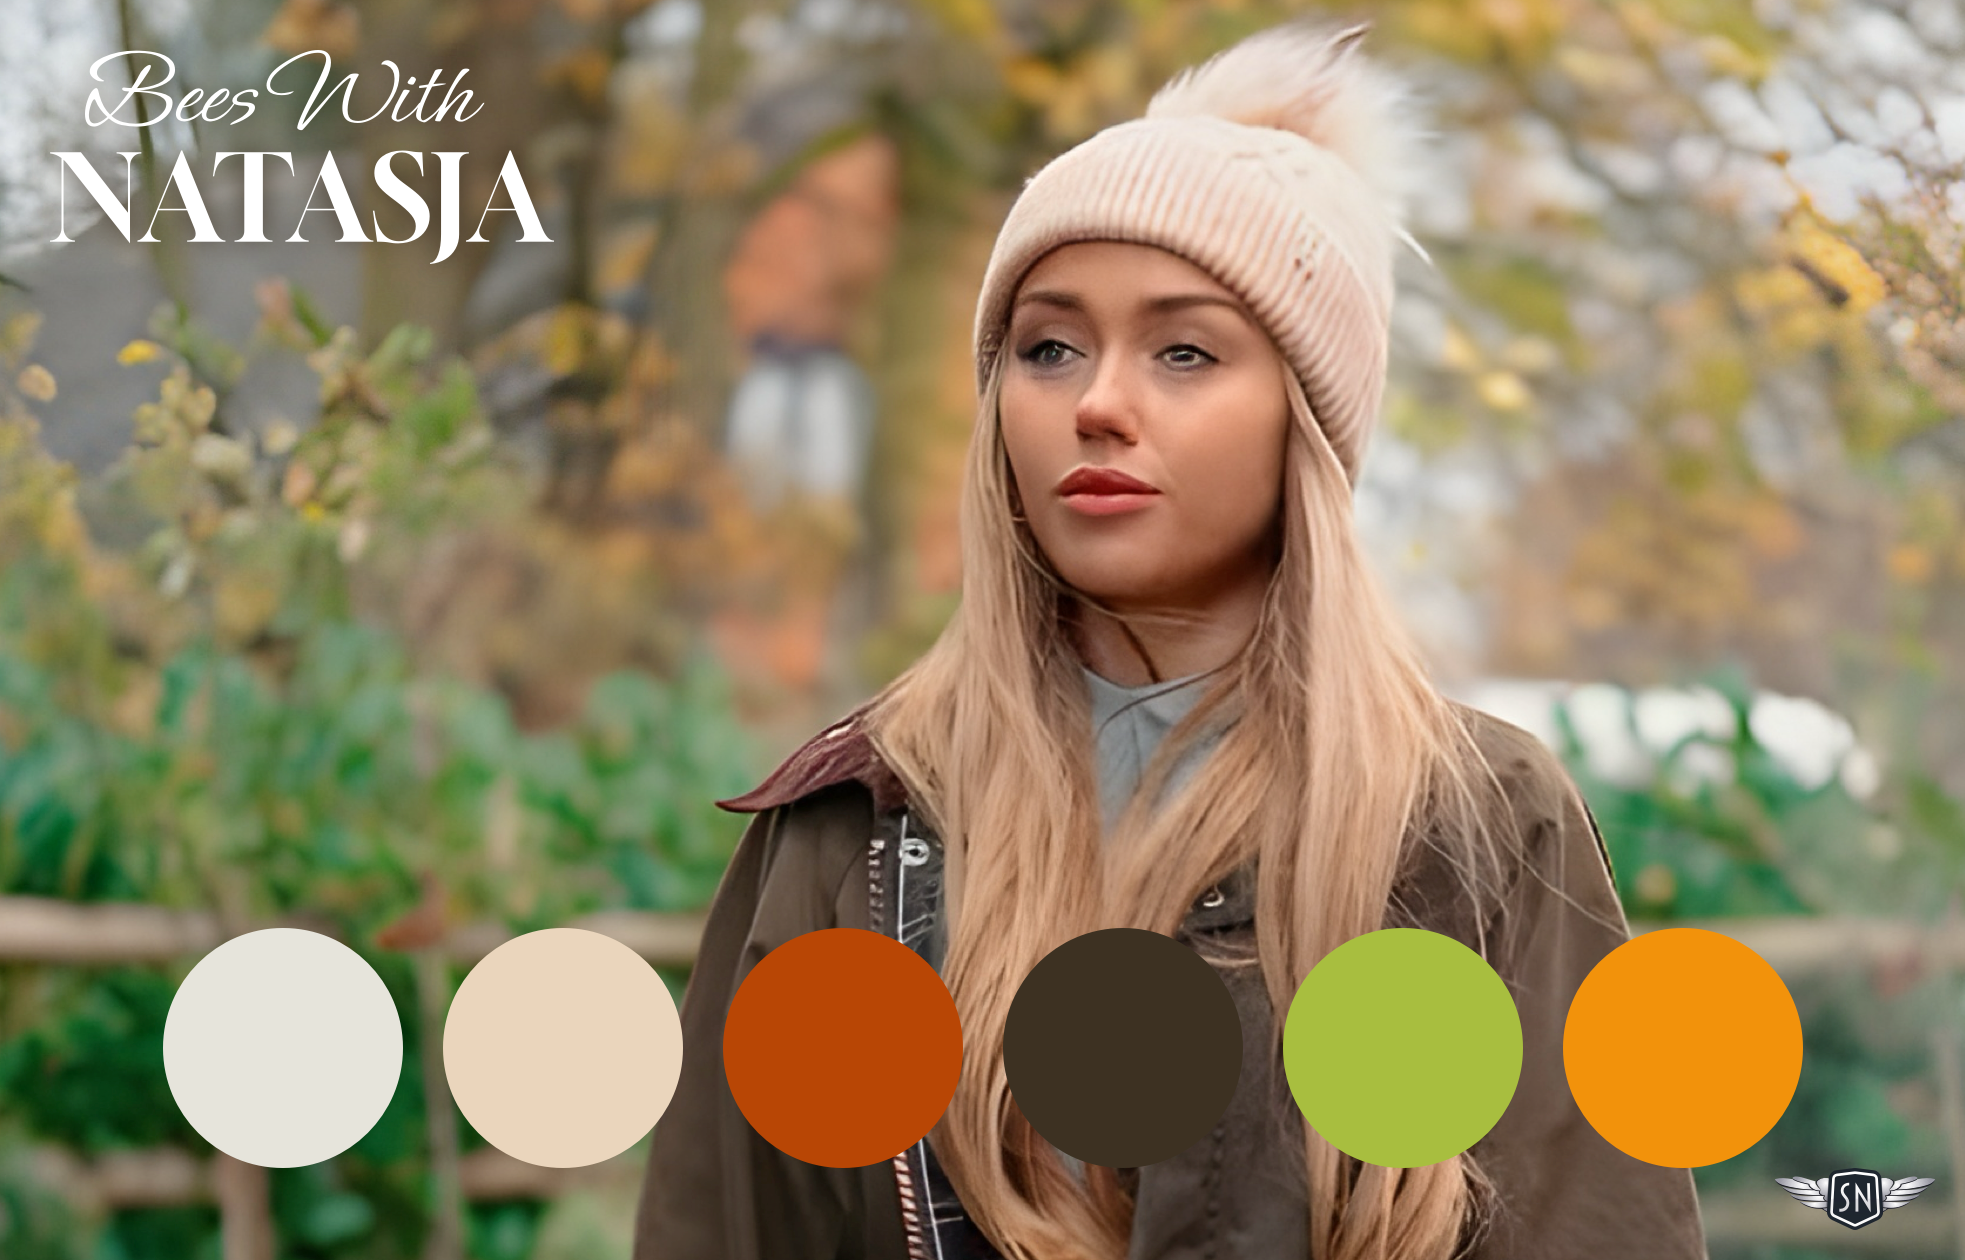
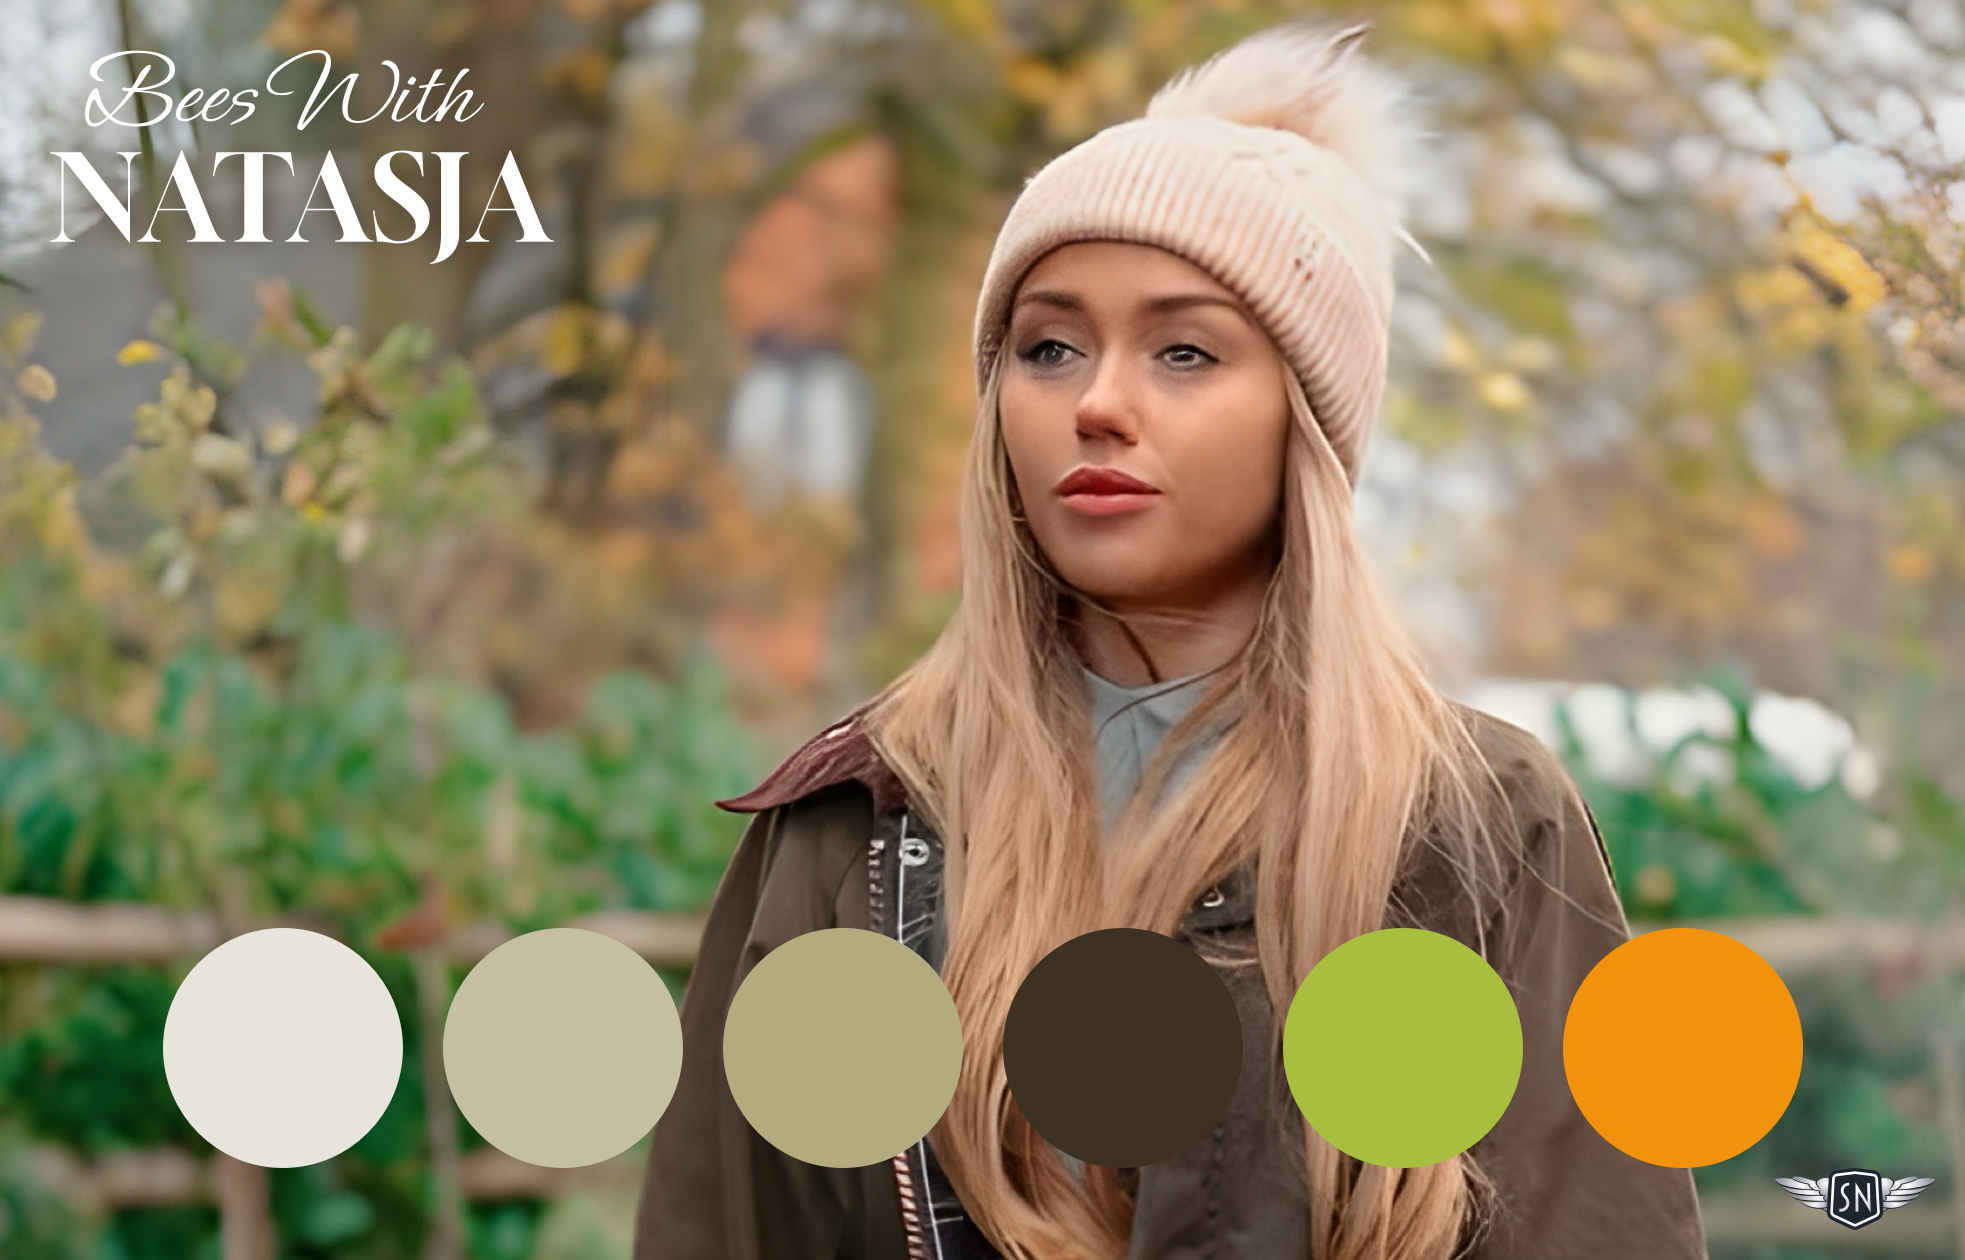
Edits

Changed region(s): [[0.2173, 0.7119, 0.4967, 0.9286]]

diff --git a/src/css/critical.css b/src/css/critical.css
@@ -30,11 +30,11 @@
 * Light theme with accent colors for visual hierarchy
 */
 
---color-primary-default: #B84604;
---color-primary-light: #CD7E4F;
---color-primary-lightest: #E3B59B;
---color-primary-dark: #933803;
---color-primary-darkest: #4A1C02;
+--color-primary-default: #B3AB80;
+--color-primary-light: #CAC4A6;
+--color-primary-lightest: #E1DDCC;
+--color-primary-dark: #8F8966;
+--color-primary-darkest: #6B674D;
 
 --color-secondary-default: #A8BE3F;
 --color-secondary-light: #C2D279;
@@ -50,14 +50,14 @@
 
 --color-background-default: #fff; /* Main background */
 --color-background-alt: #3C3122; /* Alternative background */
---color-base: #A49584; /* Darker background for contrast */
+--color-base: #E6E4DB; /* Darker background for contrast */
 --color-border: #EAD5BC; /* Border and secondary accent */
 
 --color-text-default: #3C3122; /* Primary text color */
 --color-text-alt: #F8F7F4; /* Text on dark backgrounds */
---color-text-link: var(--color-primary-default);
---color-text-link-hover: var(--color-primary-default);
---color-text-link-decoration: var(--color-primary-default);
+--color-text-link: var(--color-primary-dark);
+--color-text-link-hover: var(--color-primary-darkest);
+--color-text-link-decoration: var(--color-primary-dark);
 
 --color-positive: #2f7e67;
 --color-negative: #c71505;

diff --git a/src/index.md b/src/index.md
@@ -130,7 +130,7 @@ permalink: /index.html
 <div class="sn-colour-chip-large" style="background-color: var(--color-primary-default)"></div>
 <figcaption>
 <span>Primary colour</span>
-<span class="sn-colour-hex">#b84604</span></figcaption>
+<span class="sn-colour-hex">#b3ab80</span></figcaption>
 </figure>
 
 <figure class="sn-colour">
@@ -140,9 +140,9 @@ permalink: /index.html
 </div>
 <figcaption>
 <span>Primary colours (light)</span>
-<span class="sn-colour-hex">#b84604</span>
-<span class="sn-colour-hex">#e3b59b</span>
-<span class="sn-colour-hex">#cd7e4f</span>
+<span class="sn-colour-hex">#b3ab80</span>
+<span class="sn-colour-hex">#e1ddcc</span>
+<span class="sn-colour-hex">#cac4a6</span>
 </figcaption>
 </figure>
 
@@ -153,9 +153,9 @@ permalink: /index.html
 </div>
 <figcaption>
 <span>Primary colours (dark)</span>
-<span class="sn-colour-hex">#b84604</span>
-<span class="sn-colour-hex">#4a1c02</span>
-<span class="sn-colour-hex">#933803</span>
+<span class="sn-colour-hex">#b3ab80</span>
+<span class="sn-colour-hex">#8f8966</span>
+<span class="sn-colour-hex">#6b674d</span>
 </figcaption>
 </figure>
 
@@ -262,7 +262,7 @@ permalink: /index.html
 </div>
 <figcaption>
 <span>Link colour</span>
-<span class="sn-colour-hex">#c27b52</span>
+<span class="sn-colour-hex">#6b674d</span>
 </figcaption>
 </figure>
 
@@ -276,7 +276,7 @@ permalink: /index.html
 <div class="sn-colour-chip-small" style="background-color: var(--color-base)"></div>
 <figcaption>
 <span>Base colour</span>
-<span class="sn-colour-hex">#f7f0e2</span></figcaption>
+<span class="sn-colour-hex">#e6e4db</span></figcaption>
 </figure>
 
 <figure class="sn-colour">
